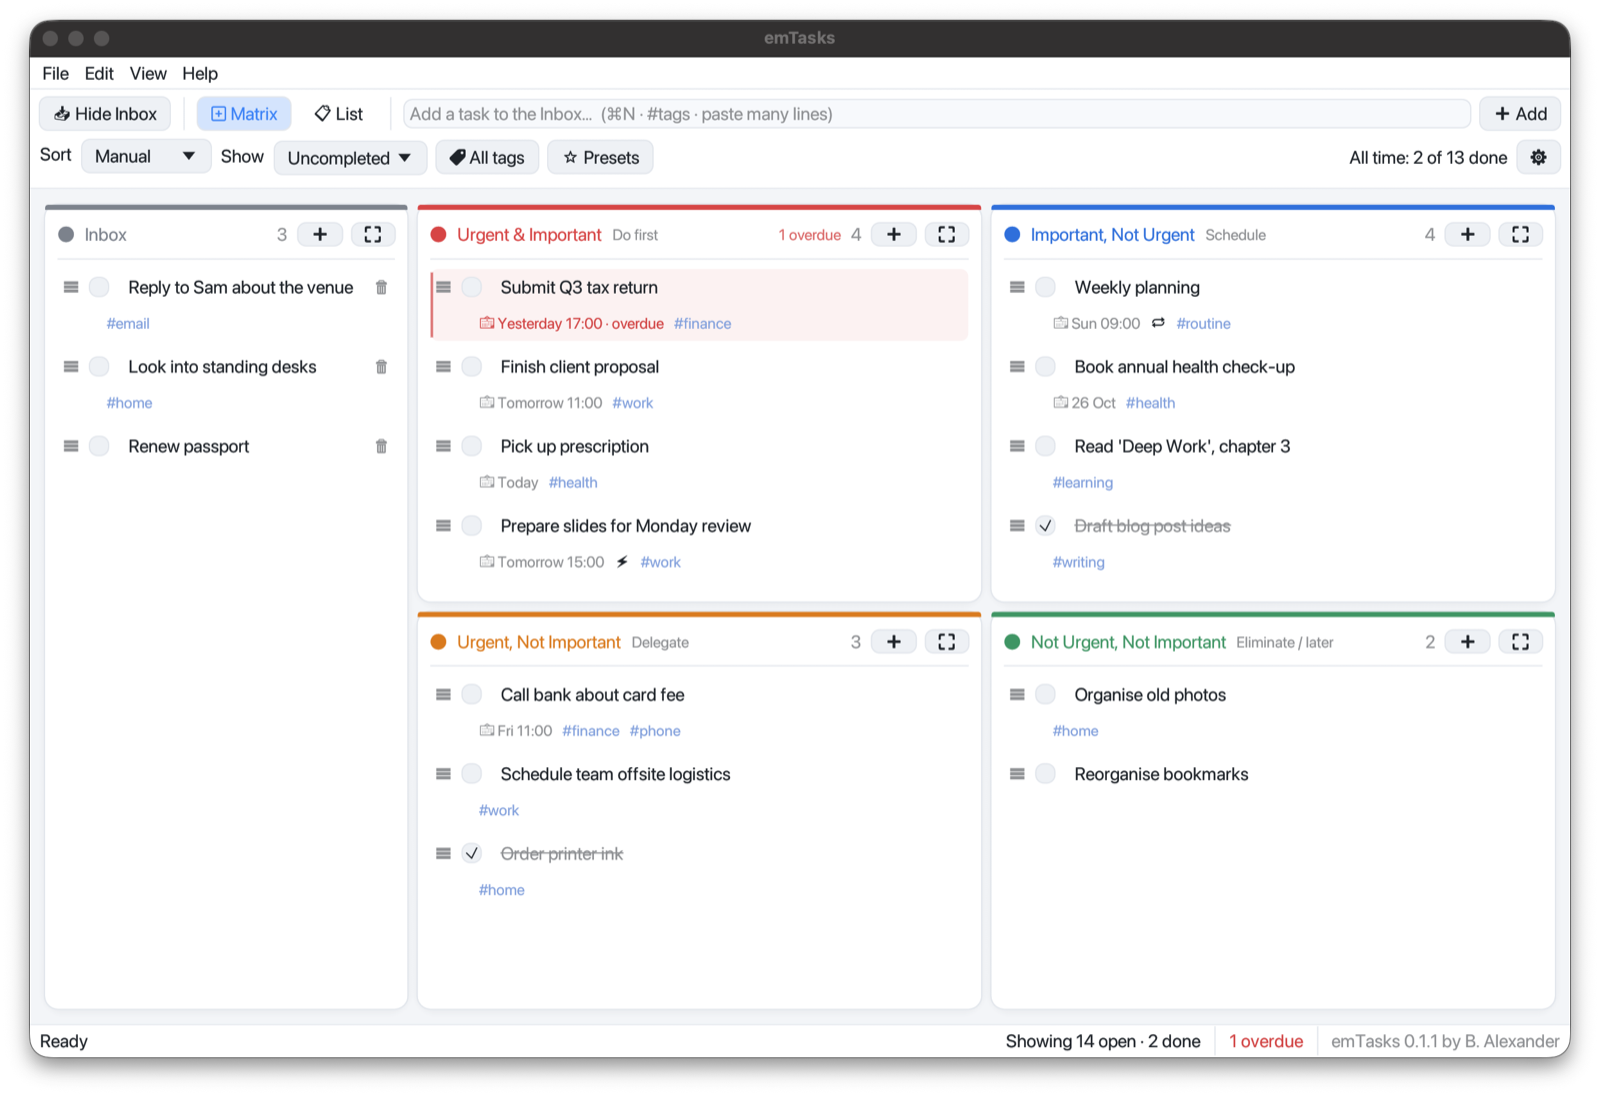
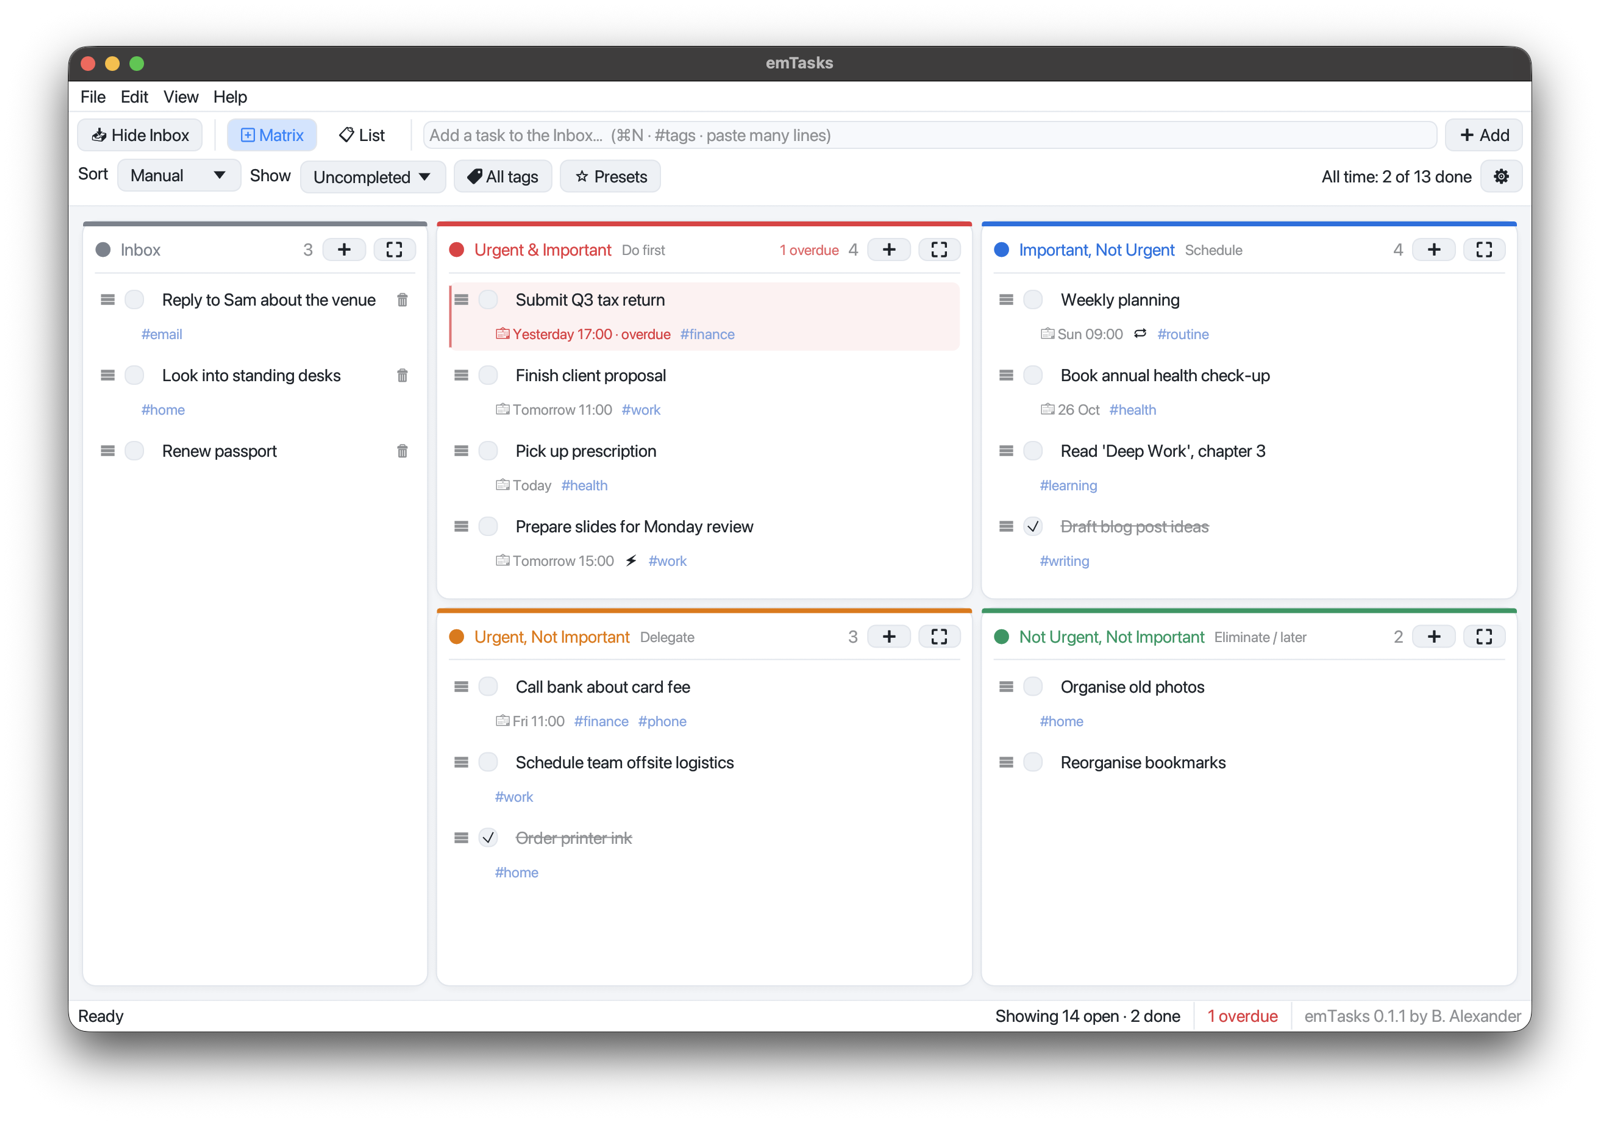
Website: walkthrough uses real emTasks screenshots
Four frames captured from the app (light and dark): a task in the
Inbox, moved to Schedule, moved to Do first by emTasks itself as the
deadline nears, then ticked off. Frames crossfade and a ring follows
the task. shoot.sh regenerates them (make_sample.py demo steps).

diff --git a/docs/index.html b/docs/index.html
@@ -32,54 +32,23 @@
   .small { font-size: 14px; margin-top: 12px; }
   .small + .small { margin-top: 4px; }
   .small a { color: var(--muted); }
-  /* ── Animated walkthrough (a simplified emTasks window) ── */
-  .demo { margin: 48px auto 0; max-width: 820px; text-align: left; }
-  .win {
-    --w-bg: #f5f5f7; --w-panel: #ffffff; --w-line: #e3e3e8; --w-text: #1d1d1f; --w-muted: #86868b;
-    --do: #dc2626; --sch: #2563eb; --del: #ea7a0c; --eli: #16a34a; --inbox: #8e8e93; --card-hover: #f2f2f5;
-    position: relative; background: var(--w-bg); border: 1px solid var(--w-line); border-radius: 12px;
-    box-shadow: 0 20px 50px rgba(0,0,0,.12), 0 2px 6px rgba(0,0,0,.06); overflow: hidden;
-    font-size: 13px; color: var(--w-text); user-select: none;
-  }
-  @media (prefers-color-scheme: dark) {
-    .win { --w-bg: #151a2b; --w-panel: #1c2338; --w-line: #2b3350; --w-text: #e8eaf2; --w-muted: #8b91a6;
-           --do: #f26a6a; --sch: #6b8cff; --del: #f5a04a; --eli: #4cc27a; --inbox: #8b91a6; --card-hover: #232b44;
-           box-shadow: 0 20px 50px rgba(0,0,0,.5); }
-  }
-  .bar { display: flex; align-items: center; height: 30px; padding: 0 12px; background: var(--w-panel); border-bottom: 1px solid var(--w-line); }
-  .bar i { width: 10px; height: 10px; border-radius: 50%; margin-right: 7px; background: #ff5f57; }
-  .bar i:nth-child(2) { background: #febc2e; } .bar i:nth-child(3) { background: #28c840; }
-  .bar span { flex: 1; text-align: center; font-weight: 600; font-size: 12px; color: var(--w-muted); margin-right: 50px; }
-  .addbox { margin: 10px 12px 0; padding: 6px 10px; border: 1px solid var(--w-line); border-radius: 7px; background: var(--w-panel); min-height: 30px; color: var(--w-text); }
-  .addbox .ph { color: var(--w-muted); }
-  .caret { display: inline-block; width: 1px; height: 14px; background: var(--w-text); vertical-align: -2px; margin-left: 1px; animation: blink 1s steps(1) infinite; }
-  @keyframes blink { 50% { opacity: 0; } }
-  .board { display: grid; grid-template-columns: 1fr 2.4fr; gap: 10px; padding: 10px 12px 12px; }
-  .quads { display: grid; grid-template-columns: 1fr 1fr; gap: 10px; }
-  .box { background: var(--w-panel); border: 1px solid var(--w-line); border-top: 3px solid var(--c); border-radius: 9px; padding: 8px 8px 6px; min-height: 118px; }
-  .box.inbox { min-height: 246px; }
-  .box h4 { margin: 0 0 6px; font-size: 12px; font-weight: 600; color: var(--c); display: flex; align-items: center; gap: 6px; }
-  .box h4::before { content: ""; width: 8px; height: 8px; border-radius: 50%; background: var(--c); }
-  .card { display: flex; align-items: flex-start; gap: 7px; padding: 5px 6px; border-radius: 6px; line-height: 1.35; }
-  .card small { display: block; color: var(--w-muted); font-size: 11px; }
-  .chk { flex: none; width: 13px; height: 13px; margin-top: 1px; border-radius: 50%; border: 1.5px solid var(--w-line); display: grid; place-items: center; font-size: 9px; color: var(--w-text); }
-  .slot { height: 42px; }
-  .mover { position: absolute; top: 0; left: 0; background: var(--card-hover); opacity: 0;
-           transition: transform .9s cubic-bezier(.4,.1,.2,1), opacity .4s ease; will-change: transform; }
-  .mover.instant { transition: none; }
-  .mover.done .t { text-decoration: line-through; color: var(--w-muted); }
-  .mover.done .chk::after { content: "✓"; }
-  .mover .bolt { color: var(--do); }
+  /* ── Walkthrough: real emTasks screenshots, one per step ── */
+  .demo { margin: 48px auto 0; max-width: 900px; text-align: left; }
+  .player { position: relative; border-radius: 12px; overflow: hidden; border: 1px solid var(--line);
+            box-shadow: 0 20px 50px rgba(0,0,0,.14), 0 2px 6px rgba(0,0,0,.06); }
+  .player picture { position: absolute; inset: 0; opacity: 0; transition: opacity .6s ease; }
+  .player picture:first-child { position: relative; }
+  .player picture.on { opacity: 1; }
+  .player img { display: block; width: 100%; height: auto; }
+  .ring { position: absolute; border: 2.5px solid #2563eb; border-radius: 8px; pointer-events: none;
+          box-shadow: 0 0 0 4px rgba(37,99,235,.18);
+          transition: left .7s ease, top .7s ease, width .7s ease, height .7s ease, opacity .4s; }
+  @media (prefers-color-scheme: dark) { .ring { border-color: #8aa4ff; box-shadow: 0 0 0 4px rgba(138,164,255,.22); } }
   .steps { list-style: none; padding: 0; margin: 18px 0 0; display: grid; grid-template-columns: repeat(4, 1fr); gap: 8px; font-size: 14px; color: var(--muted); }
   .steps li { border-top: 2px solid var(--line); padding-top: 8px; transition: color .3s, border-color .3s; }
   .steps li b { display: block; color: inherit; font-weight: 600; }
   .steps li.on { color: var(--text); border-color: var(--text); }
-  @media (max-width: 600px) {
-    .win { font-size: 11px; } .card small { font-size: 9.5px; } .box h4 { font-size: 10.5px; }
-    .board { grid-template-columns: 1fr 2fr; gap: 6px; padding: 8px; } .quads { gap: 6px; }
-    .box { padding: 6px 5px 4px; min-height: 104px; } .box.inbox { min-height: 214px; }
-    .steps { grid-template-columns: 1fr 1fr; font-size: 13px; }
-  }
+  @media (max-width: 600px) { .steps { grid-template-columns: 1fr 1fr; font-size: 13px; } }
   p.about { margin-top: 40px; max-width: 600px; line-height: 1.65; }
   footer { text-align: center; color: var(--muted); font-size: 13px; padding: 24px 20px 48px; }
   footer a { color: var(--muted); }
@@ -93,36 +62,16 @@
   <a class="btn" href="https://github.com/binu-alexander/emtasks/releases/latest">Download for Mac</a>
   <p class="small">Free · Offline · No account · macOS 11+ on Apple Silicon</p>
   <p class="small">Opening it for the first time? macOS asks you to approve it once. <a href="https://github.com/binu-alexander/emtasks#install">Here's how.</a></p>
-  <figure class="demo" role="img" aria-label="Animation: a task is typed into the Inbox, moved to Schedule, moves to Do first by itself as its deadline nears, and is ticked off.">
-    <div class="win" id="win" aria-hidden="true">
-      <div class="bar"><i></i><i></i><i></i><span>emTasks</span></div>
-      <div class="addbox"><span id="typed"></span><span class="caret"></span><span class="ph" id="ph">Add a task to the Inbox…</span></div>
-      <div class="board">
-        <div class="box inbox" style="--c: var(--inbox)"><h4>Inbox</h4>
-          <div class="card"><span class="chk"></span><span>Renew passport</span></div>
-          <div class="slot" data-slot="inbox"></div>
-        </div>
-        <div class="quads">
-          <div class="box" style="--c: var(--do)"><h4>Do first</h4>
-            <div class="card"><span class="chk"></span><span>Finish client proposal<small>Today 16:00 · #work</small></span></div>
-            <div class="slot" data-slot="do"></div>
-          </div>
-          <div class="box" style="--c: var(--sch)"><h4>Schedule</h4>
-            <div class="card"><span class="chk"></span><span>Weekly planning<small>Sun 09:00 · #routine</small></span></div>
-            <div class="slot" data-slot="schedule"></div>
-          </div>
-          <div class="box" style="--c: var(--del)"><h4>Delegate</h4>
-            <div class="card"><span class="chk"></span><span>Book team offsite</span></div>
-          </div>
-          <div class="box" style="--c: var(--eli)"><h4>Eliminate / later</h4>
-            <div class="card"><span class="chk"></span><span>Reorganise bookmarks</span></div>
-          </div>
-        </div>
-      </div>
-      <div class="card mover" id="mover"><span class="chk"></span><span><span class="t">Call the bank</span><small id="meta">#finance</small></span></div>
+  <figure class="demo" role="img" aria-label="emTasks walkthrough: a new task waits in the Inbox, is moved to Schedule, moves to Do first by itself as its deadline nears, and is ticked off.">
+    <div class="player" id="player" aria-hidden="true">
+      <picture class="on"><source srcset="demo/dark-1.jpg" media="(prefers-color-scheme: dark)"><img src="demo/light-1.jpg" width="1400" height="942" alt=""></picture>
+      <picture><source srcset="demo/dark-2.jpg" media="(prefers-color-scheme: dark)"><img src="demo/light-2.jpg" width="1400" height="942" alt=""></picture>
+      <picture><source srcset="demo/dark-3.jpg" media="(prefers-color-scheme: dark)"><img src="demo/light-3.jpg" width="1400" height="942" alt=""></picture>
+      <picture><source srcset="demo/dark-4.jpg" media="(prefers-color-scheme: dark)"><img src="demo/light-4.jpg" width="1400" height="942" alt=""></picture>
+      <div class="ring" id="ring"></div>
     </div>
     <ol class="steps" id="steps">
-      <li><b>1. Jot it down</b>New tasks land in the Inbox.</li>
+      <li><b>1. Jot it down</b>New tasks wait in the Inbox.</li>
       <li><b>2. Put it in a box</b>Drag it to where it belongs.</li>
       <li><b>3. It moves when due</b>Deadlines near? It goes to Do first.</li>
       <li><b>4. Tick it off</b>Done, quietly. No pop-ups.</li>
@@ -135,54 +84,24 @@
 </footer>
 <script>
 (() => {
-  const win = document.getElementById("win"), mover = document.getElementById("mover");
-  const typed = document.getElementById("typed"), ph = document.getElementById("ph");
-  const meta = document.getElementById("meta"), steps = [...document.querySelectorAll("#steps li")];
+  // Where "Renew car insurance" sits in each frame, as % of the screenshot (left, top, width, height).
+  const spots = [[1.4, 43.3, 23.0, 7.6], [62.7, 46.4, 36.2, 7.4], [25.5, 46.4, 36.0, 7.4], [25.5, 46.4, 36.0, 7.4]];
+  const pics = [...document.querySelectorAll("#player picture")];
+  const steps = [...document.querySelectorAll("#steps li")];
+  const ring = document.getElementById("ring");
   const reduce = window.matchMedia("(prefers-reduced-motion: reduce)").matches;
-  const wait = ms => new Promise(r => setTimeout(r, ms));
-  let at = "inbox";
-
-  function place(slot, instant) {
-    at = slot;
-    // Every box keeps room for the card at its current height (it grows when text wraps on small screens).
-    const h = mover.offsetHeight + 4 + "px";
-    win.querySelectorAll("[data-slot]").forEach(el => (el.style.height = h));
-    const s = win.querySelector(`[data-slot="${slot}"]`).getBoundingClientRect();
-    const w = win.getBoundingClientRect();
-    mover.classList.toggle("instant", !!instant);
-    mover.style.width = s.width + "px";
-    mover.style.transform = `translate(${s.left - w.left}px, ${s.top - w.top}px)`;
-    if (instant) mover.offsetHeight; // apply now, before transitions resume
+  function show(n) {
+    pics.forEach((p, i) => p.classList.toggle("on", i === n));
+    steps.forEach((li, i) => li.classList.toggle("on", i === n));
+    const [l, t, w, h] = spots[n];
+    Object.assign(ring.style, { left: l + "%", top: t + "%", width: w + "%", height: h + "%" });
   }
-  const step = n => steps.forEach((li, i) => li.classList.toggle("on", i === n));
-  addEventListener("resize", () => place(at, true));
-
-  if (reduce) { // Reduce motion: show the end result, no animation.
-    meta.innerHTML = 'Tomorrow 10:00 · <span class="bolt">⚡</span> #finance';
-    place("do", true); mover.style.opacity = 1; steps.forEach(li => li.classList.add("on"));
-    return;
-  }
-
-  async function loop() {
-    for (;;) {
-      mover.style.opacity = 0; mover.classList.remove("done"); meta.textContent = "#finance";
-      place("inbox", true); typed.textContent = ""; ph.style.display = "";
-      step(0); await wait(700);
-      ph.style.display = "none";
-      for (const ch of "Call the bank #finance") { typed.textContent += ch; await wait(60); }
-      await wait(450);
-      typed.textContent = ""; ph.style.display = ""; mover.style.opacity = 1;
-      await wait(1300);
-      step(1); place("schedule"); await wait(1700);
-      step(2); meta.textContent = "Tomorrow 10:00 · #finance"; await wait(900);
-      meta.innerHTML = 'Tomorrow 10:00 · <span class="bolt">⚡</span> #finance';
-      place("do"); await wait(1900);
-      step(3); mover.classList.add("done"); await wait(1900);
-      mover.style.opacity = 0; await wait(700);
-    }
-  }
-  // Start only once the layout (and fonts) are ready, so positions are right.
-  addEventListener("load", loop);
+  if (reduce) { show(2); steps.forEach(li => li.classList.add("on")); return; } // Reduce motion: one still frame.
+  const hold = [2600, 2600, 2800, 2600];
+  let n = 0;
+  show(0);
+  const next = () => { n = (n + 1) % pics.length; show(n); setTimeout(next, hold[n]); };
+  setTimeout(next, hold[0]);
 })();
 </script>
 </body>

diff --git a/emtasks/packaging/screenshots/make_sample.py b/emtasks/packaging/screenshots/make_sample.py
@@ -1,14 +1,16 @@
 # Writes a emTasks data file with made-up sample tasks (dates relative to today) for screenshots.
-# Usage: python3 make_sample.py <Theme> <output .ron> [Matrix|List]
+# Usage: python3 make_sample.py <Theme> <output .ron> [Matrix|List] [demo step 1-4]
 # Dates are fixed days relative to today (and a 48 h urgent window), so shots look the same at any time of day.
 import sys, time, datetime as dt
 theme, out = sys.argv[1], sys.argv[2]
 view = sys.argv[3] if len(sys.argv) > 3 else "Matrix"
+# Website walkthrough: one extra task shown at each step (Inbox → Schedule → moved to Do first → done).
+demo = int(sys.argv[4]) if len(sys.argv) > 4 else 0
 now = int(time.time())
 today = int(dt.datetime.combine(dt.date.today(), dt.time()).timestamp())
 D, H = 86400, 3600
 tasks = []
-def t(title, sec, due=None, all_day=False, tags=(), done_ago=None, notes="", repeat="None", every=1, created_ago=3):
+def t(title, sec, due=None, all_day=False, tags=(), done_ago=None, notes="", repeat="None", every=1, created_ago=3, auto_from=None):
     i = len(tasks) + 1
     f = [f"id:{i}", f'title:"{title}"', f'notes:"{notes}"', f"section:{sec}",
          f"completed:{'true' if done_ago is not None else 'false'}",
@@ -16,14 +18,15 @@ def t(title, sec, due=None, all_day=False, tags=(), done_ago=None, notes="", rep
          f"completed_at:{'Some(%d)' % (now - done_ago) if done_ago is not None else 'None'}",
          f"due:{'Some(%d)' % due if due else 'None'}", f"all_day:{'true' if all_day else 'false'}",
          f"repeat:{repeat}", f"repeat_every:{every}",
-         "tags:[" + ",".join(f'"{g}"' for g in tags) + "]", "wait_for:None", "auto_from:None"]
+         "tags:[" + ",".join(f'"{g}"' for g in tags) + "]", "wait_for:None", f"auto_from:{'Some(%s)' % auto_from if auto_from else 'None'}"]
     tasks.append("(" + ",".join(f) + ")")
 t("Reply to Sam about the venue", "Unsorted", tags=["email"])
 t("Look into standing desks", "Unsorted", tags=["home"])
 t("Renew passport", "Unsorted")
 t("Submit Q3 tax return", "Do", due=today - D + 17*H, tags=["finance"], notes="Receipts are in the Taxes folder.")
 t("Finish client proposal", "Do", due=today + D + 11*H, tags=["work"])
-t("Pick up prescription", "Do", due=today, all_day=True, tags=["health"])
+if not demo:
+    t("Pick up prescription", "Do", due=today, all_day=True, tags=["health"])
 t("Prepare slides for Monday review", "Schedule", due=today + D + 15*H, tags=["work"])
 t("Weekly planning", "Schedule", due=today + 4*D + 9*H, tags=["routine"], repeat="Week")
 t("Book annual health check-up", "Schedule", due=today + 12*D, all_day=True, tags=["health"])
@@ -34,6 +37,15 @@ t("Order printer ink", "Delegate", tags=["home"], done_ago=20*H)
 t("Organise old photos", "Eliminate", tags=["home"])
 t("Reorganise bookmarks", "Eliminate")
 t("Draft blog post ideas", "Schedule", tags=["writing"], done_ago=2*D)
+# Step 3 is saved in Schedule with a deadline tomorrow: emTasks itself moves it to Do first (⚡) on launch.
+demo_task = {
+    1: dict(sec="Unsorted"),
+    2: dict(sec="Schedule"),
+    3: dict(sec="Schedule", due=today + D + 10*H),
+    4: dict(sec="Do", due=today + D + 10*H, auto_from="Schedule", done_ago=600),
+}.get(demo)
+if demo_task:
+    t("Renew car insurance", tags=["home"], created_ago=0, **demo_task)
 data = f"""(version:1,tasks:[{",".join(tasks)}],next_id:{len(tasks)+1},
 filter:(tags:[],status:Active,sort:Manual),presets:[],view:{view},theme:{theme},
 settings:(auto_urgent:true,urgent_hours:48,show_inbox:true,documents_backup:false,keep_completed:Week))"""
